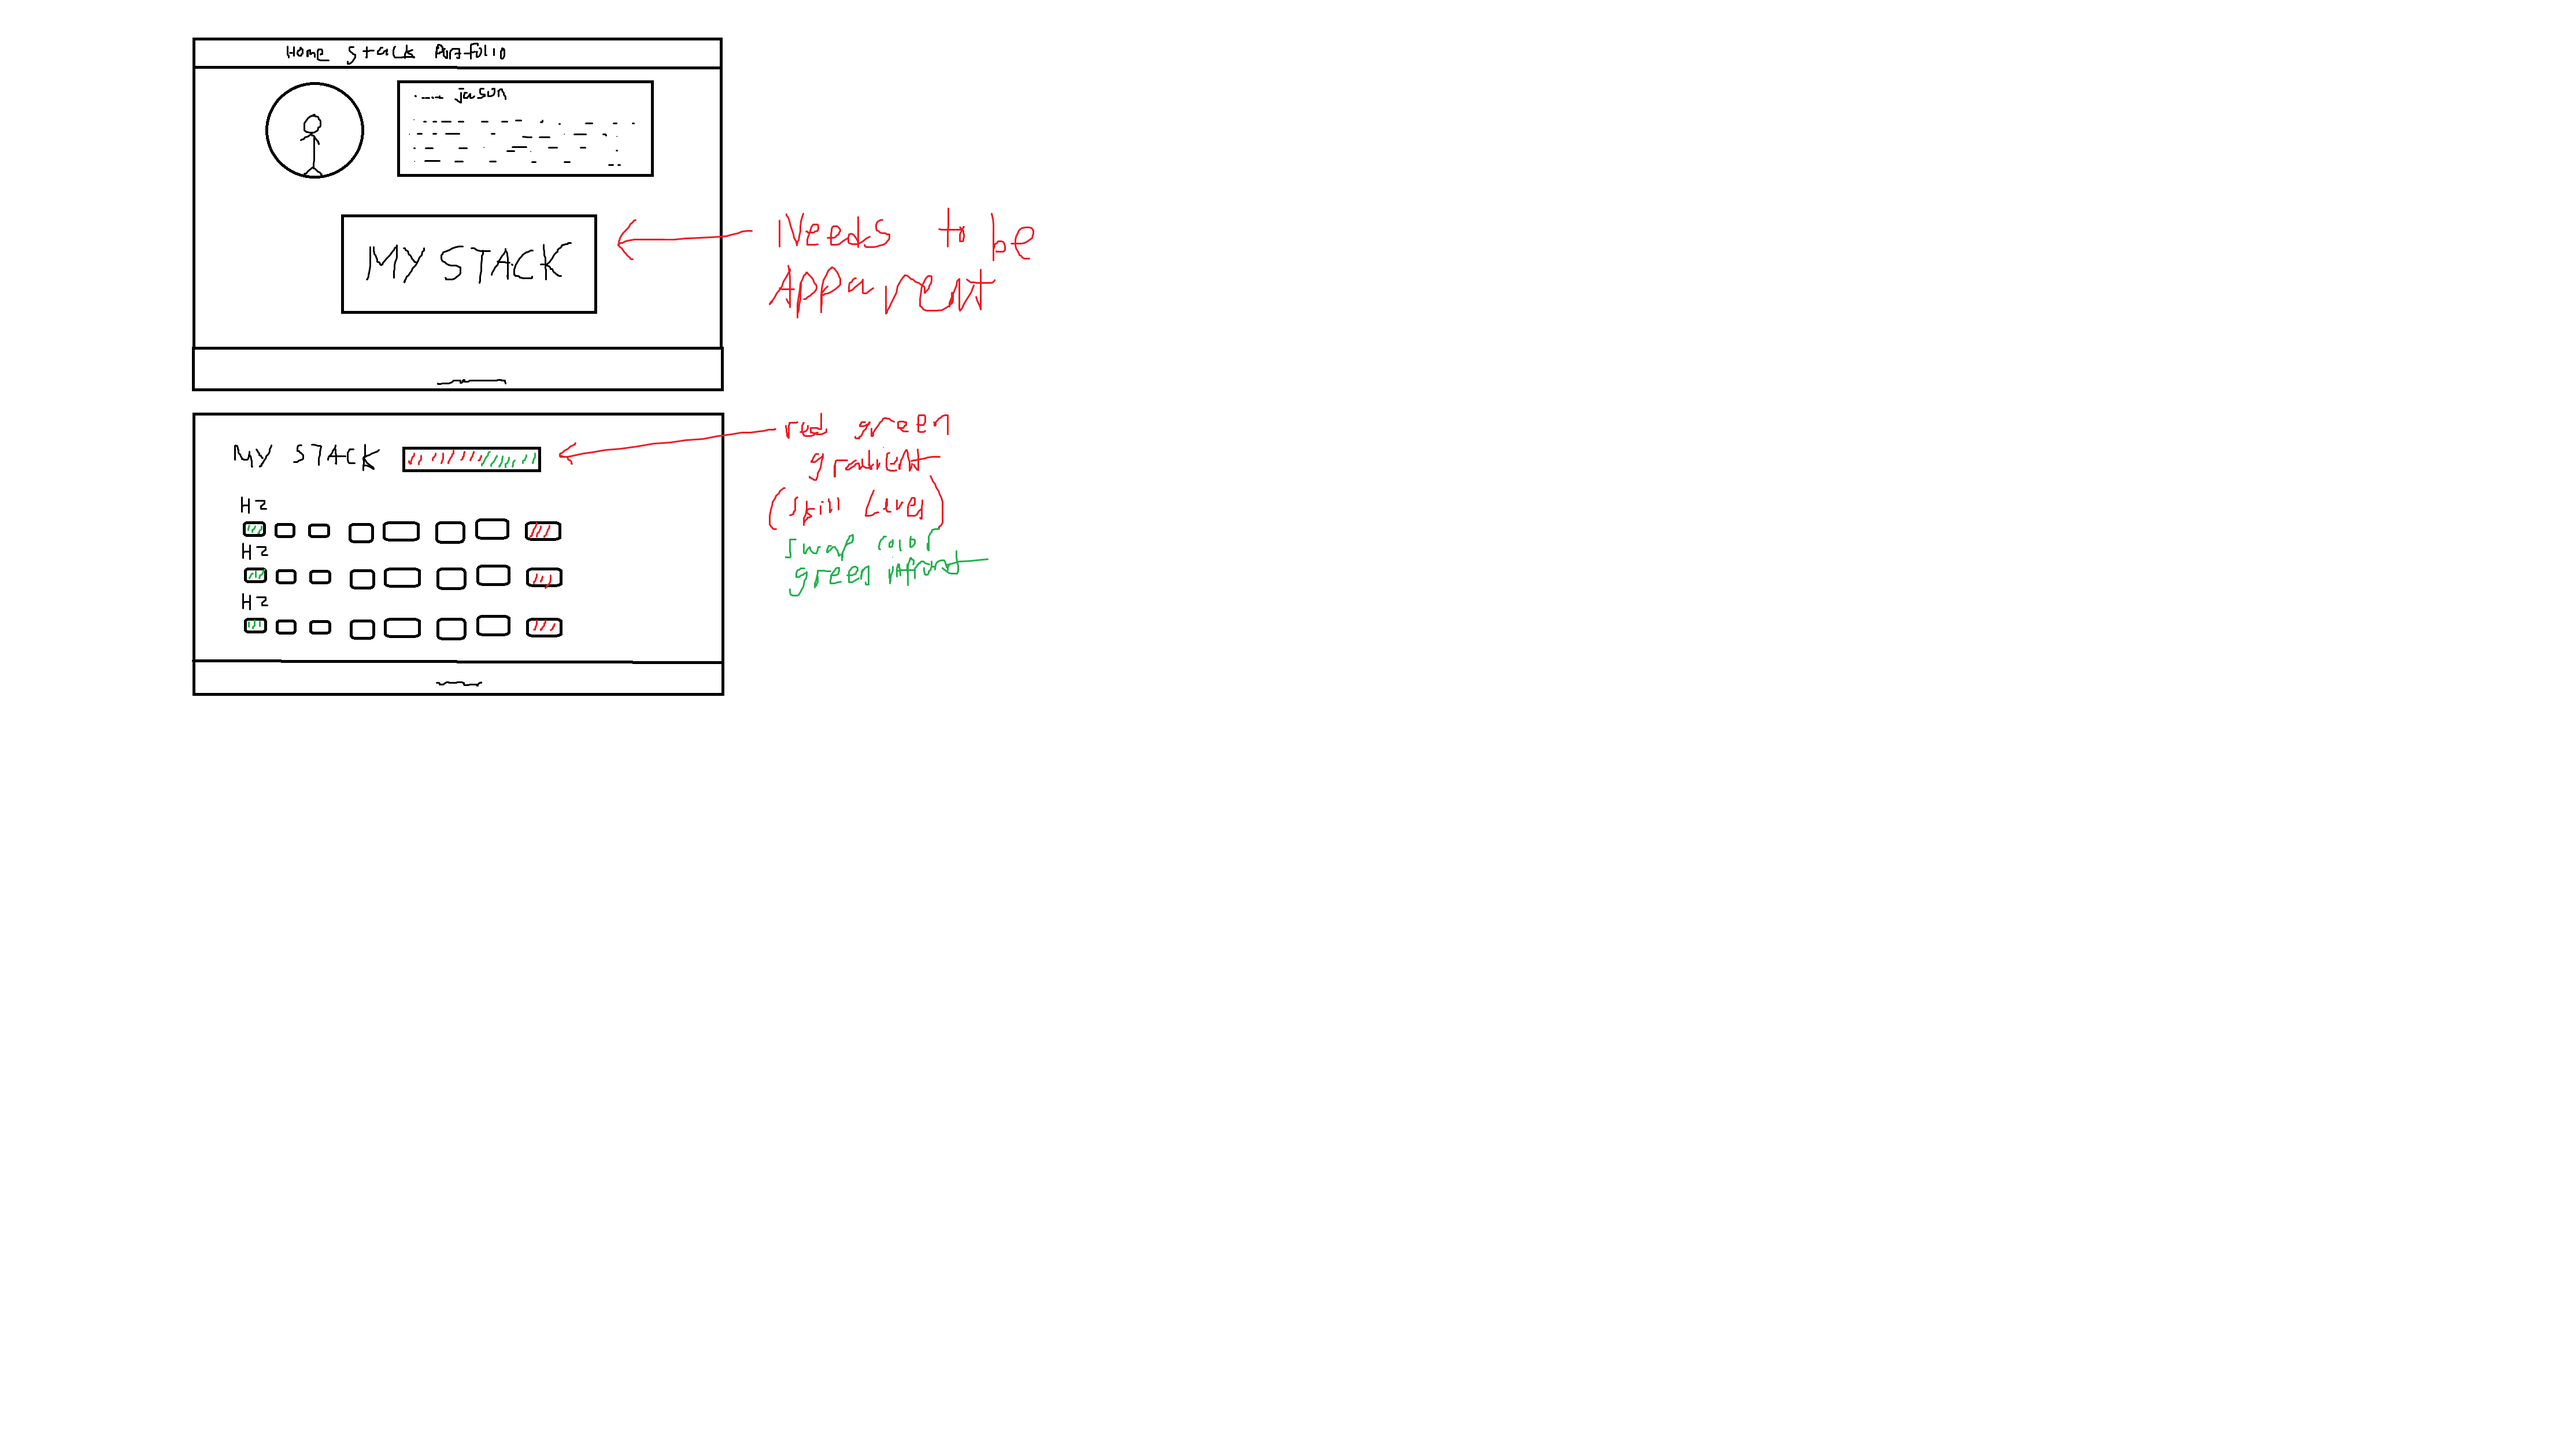
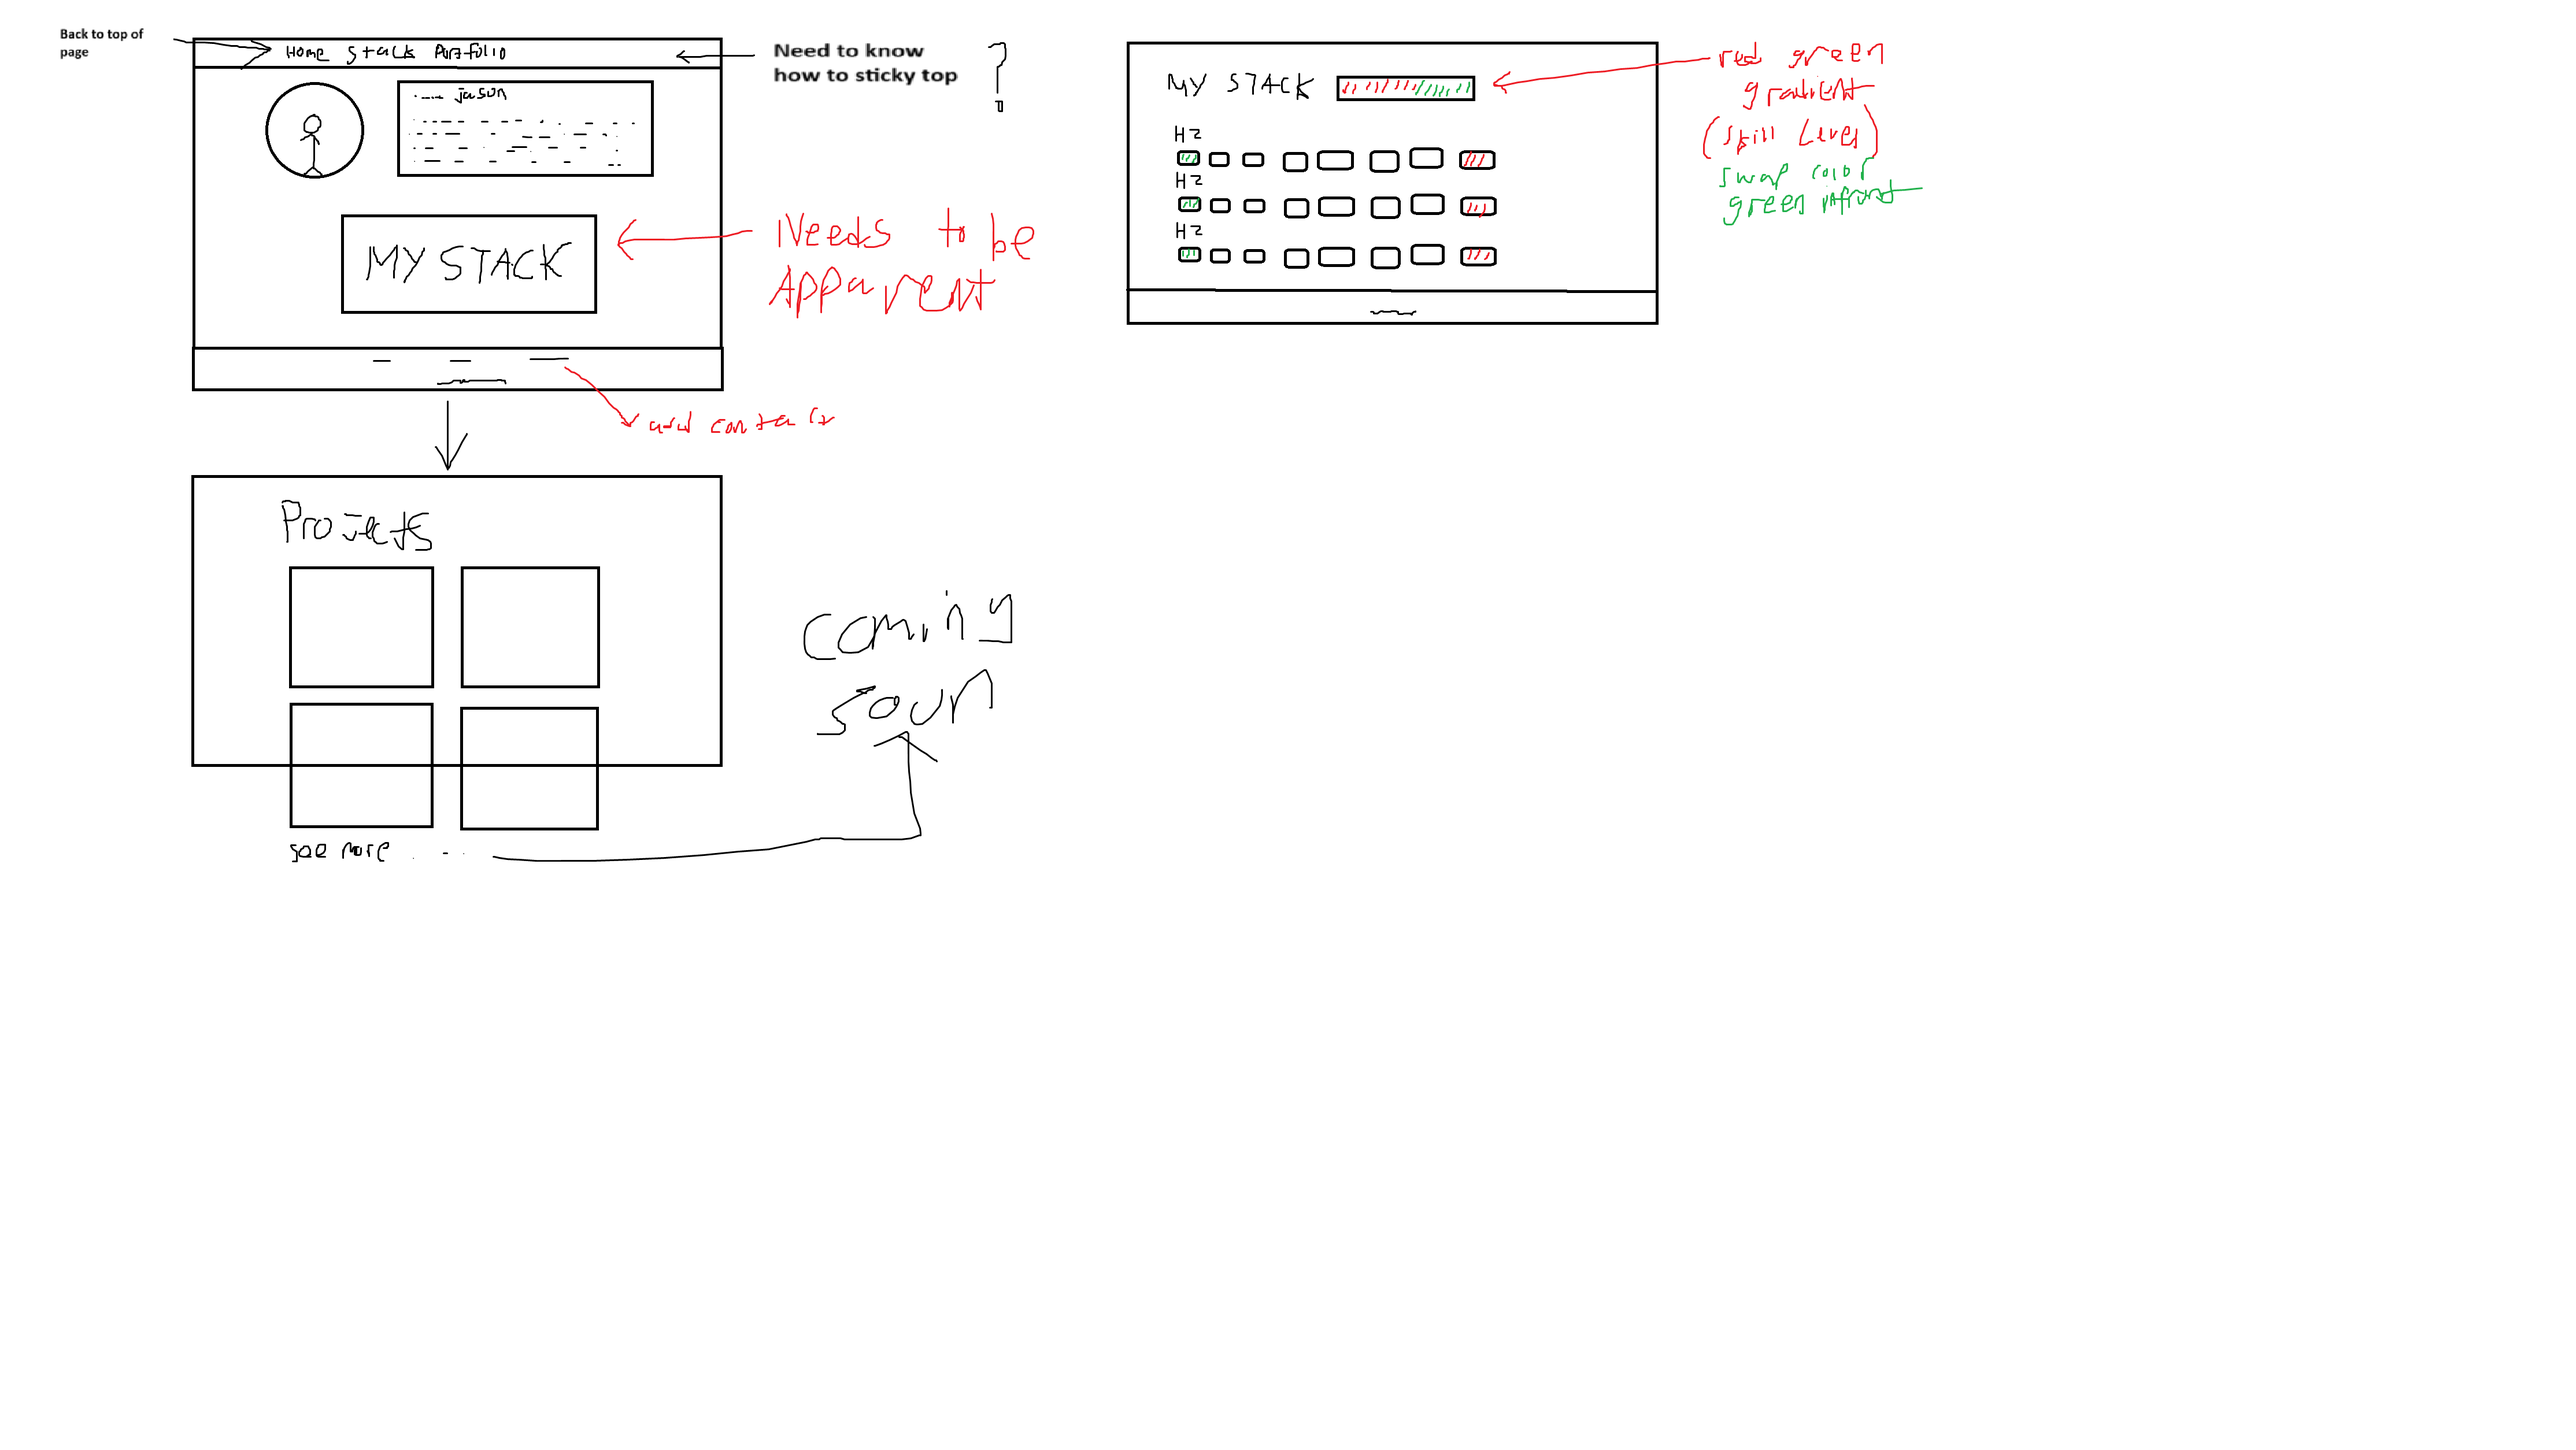
Capstone 2 - Project & Contact

diff --git a/Capstone Project 2 (HTML + CSS Portfolio)/index.html b/Capstone Project 2 (HTML + CSS Portfolio)/index.html
@@ -39,7 +39,38 @@
         </div>
     </div>
 
+    <div class="container">
+        <div class="project_list">
+            <h1>My Projects</h1>
+            <div class="project_item">
+                <div class="project">
+                    <img src="./Images/resume_photo.png" alt="resume photo">
+                    <a href="https://redbloodcell1.github.io/html_portfolio/">
+                        <h2>HTML Portfolio</h2>
+                    </a>
+
+                </div>
+                <div class="project">
+                    <h2>Coming Soon</h2>
+                </div>
+                <div class="project">
+                    <h2>Coming Soon</h2>
+                </div>
+                <div class="project">
+                    <h2>Coming Soon</h2>
+                </div>
+            </div>
+
+        </div>
+    </div>
+    </div>
+
     <footer>
+        <div class="contact">
+            <div><a href="https://www.linkedin.com/in/martinjasonalfredo/" target="_blank">LinkedIn</a></div>
+            <div><a href="https://github.com/RedBloodCell1">Github</a></div>
+            <div><a href="https://redbloodcell1.github.io/html-css-portfolio/">Website</a></div>
+        </div>
         <div>© Copyright 2025, Jason</div>
     </footer>
 

diff --git a/Capstone Project 2 (HTML + CSS Portfolio)/style.css b/Capstone Project 2 (HTML + CSS Portfolio)/style.css
@@ -15,7 +15,7 @@ body {
 
 .container {
   padding-left: 25vw;
-  padding-right: 25svw;
+  padding-right: 25vw;
 }
 
 .header_item {
@@ -129,11 +129,61 @@ a {
   border-radius: 10px;
 }
 
+.project_list h1 {
+  color: #bbe1fa;
+}
+
+.project_item {
+  display: grid;
+  grid-template-columns: 40% 40%;
+  grid-template-rows: 300px 300px;
+  gap: 50px;
+}
+
+.project {
+  display: flex;
+  flex-direction: column;
+  justify-content: center;
+  align-items: center;
+  overflow: hidden;
+
+  background-color: #3282b8;
+  padding: 20px;
+  color: #bbe1fa;
+  border-radius: 20px;
+}
+
+.project img {
+  height: 120px;
+  display: flex;
+  justify-content: center;
+  border: 2px solid #1b262c;
+  border-radius: 5px;
+}
+
+.project h2 {
+  height: auto;
+  width: 200px;
+  text-align: center;
+  border-radius: 10px;
+  border: 2px solid #bbe1fa;
+  background-color: #1b262c;
+}
+
+.contact {
+  display: flex;
+  justify-content: center;
+  gap: 100px;
+}
+
 footer {
   margin-top: auto;
   display: flex;
+  flex-direction: column;
   justify-content: center;
-  height: 50px;
+  align-items: center;
+  gap: 30px;
+  height: 150px;
   margin-top: 50px;
   color: #bbe1fa;
 }

diff --git a/README.md b/README.md
@@ -70,10 +70,12 @@ You know, its kinda disheartening a little bit that I am late to publish new bra
 
 - 23/03/2025 = Study (Section 12 Design Ending)
 
-- 24/03/2025 = Project (Section 13)
+- 24/03/2025 = Project - Design (Section 13)
 
-- 25/03/2025 = Project (Section 13)
+- 25/03/2025 = Project - Hero (Section 13)
 
 Btw, I will not be studying on 27 - 30 most likely because I got more important things to do. So yeah I already note this down so you guys know where I am if Im gone. (Who are "you guys" anyway)
 
-- 26/03/2025 = Project (Section 13)
+- 26/03/2025 = Project - Stack (Section 13)
+
+- 31/03/2025 = Project - Project & About Me (Section 13)

diff --git a/Capstone Project 2 (HTML + CSS Portfolio)/README.md b/Capstone Project 2 (HTML + CSS Portfolio)/README.md
@@ -32,3 +32,8 @@ I never knew I would reach this point. Now, lets start making things step by ste
 ## Second + Third Day:
 
 1. Forgot to write anything, long story short, second day is index, third day is stack
+
+## Fourth day:
+
+1. My Project
+2. Contact
